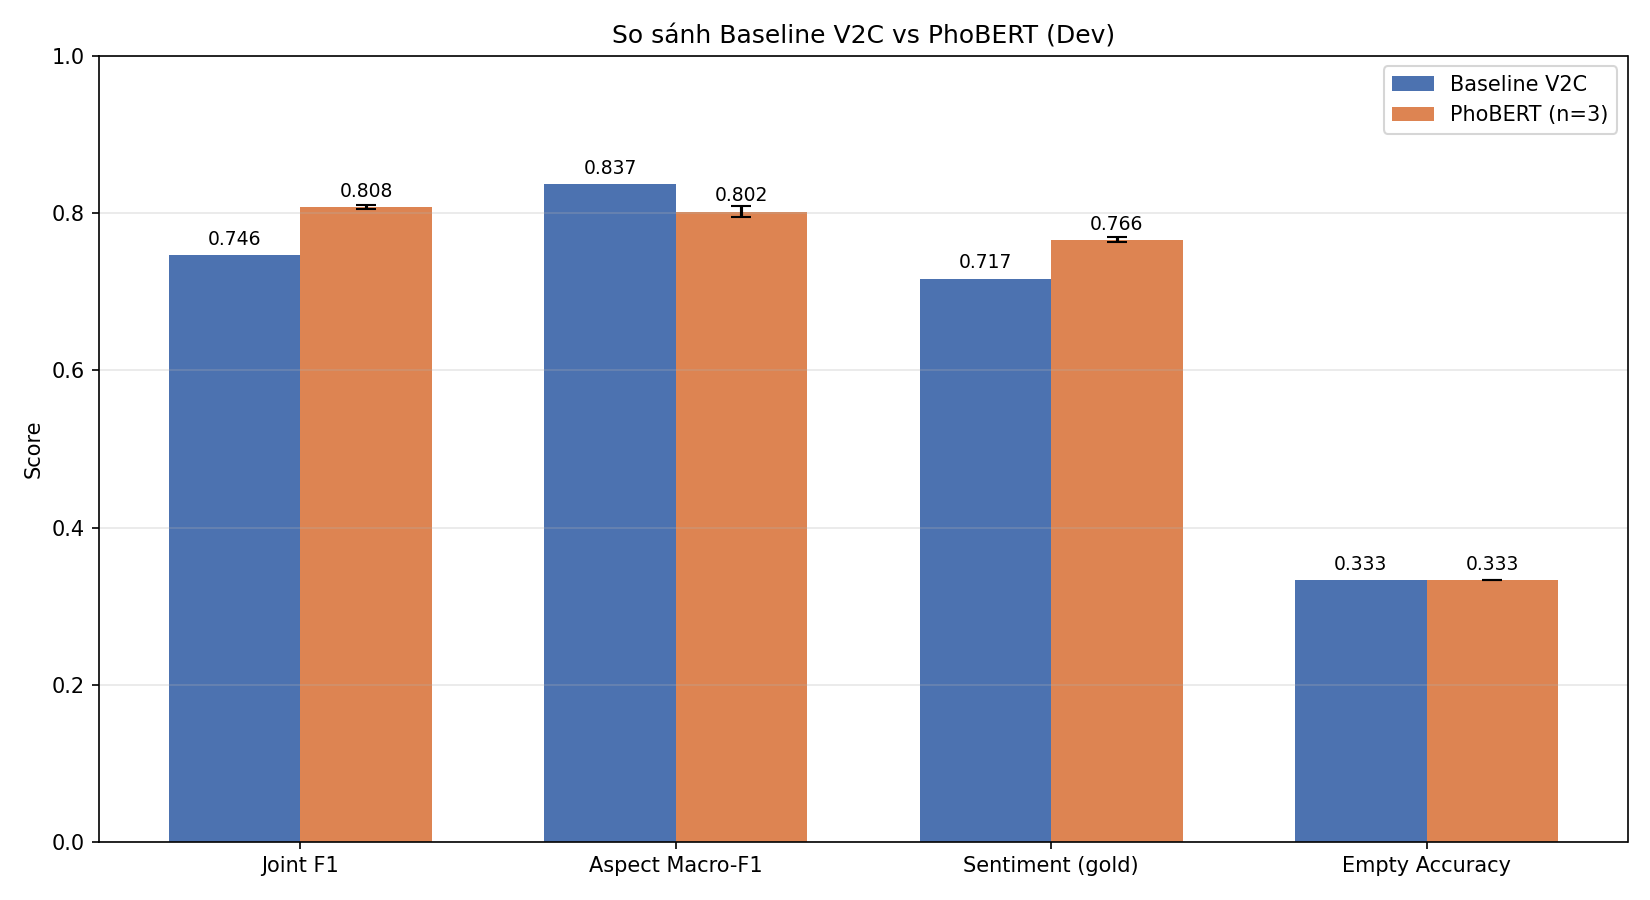
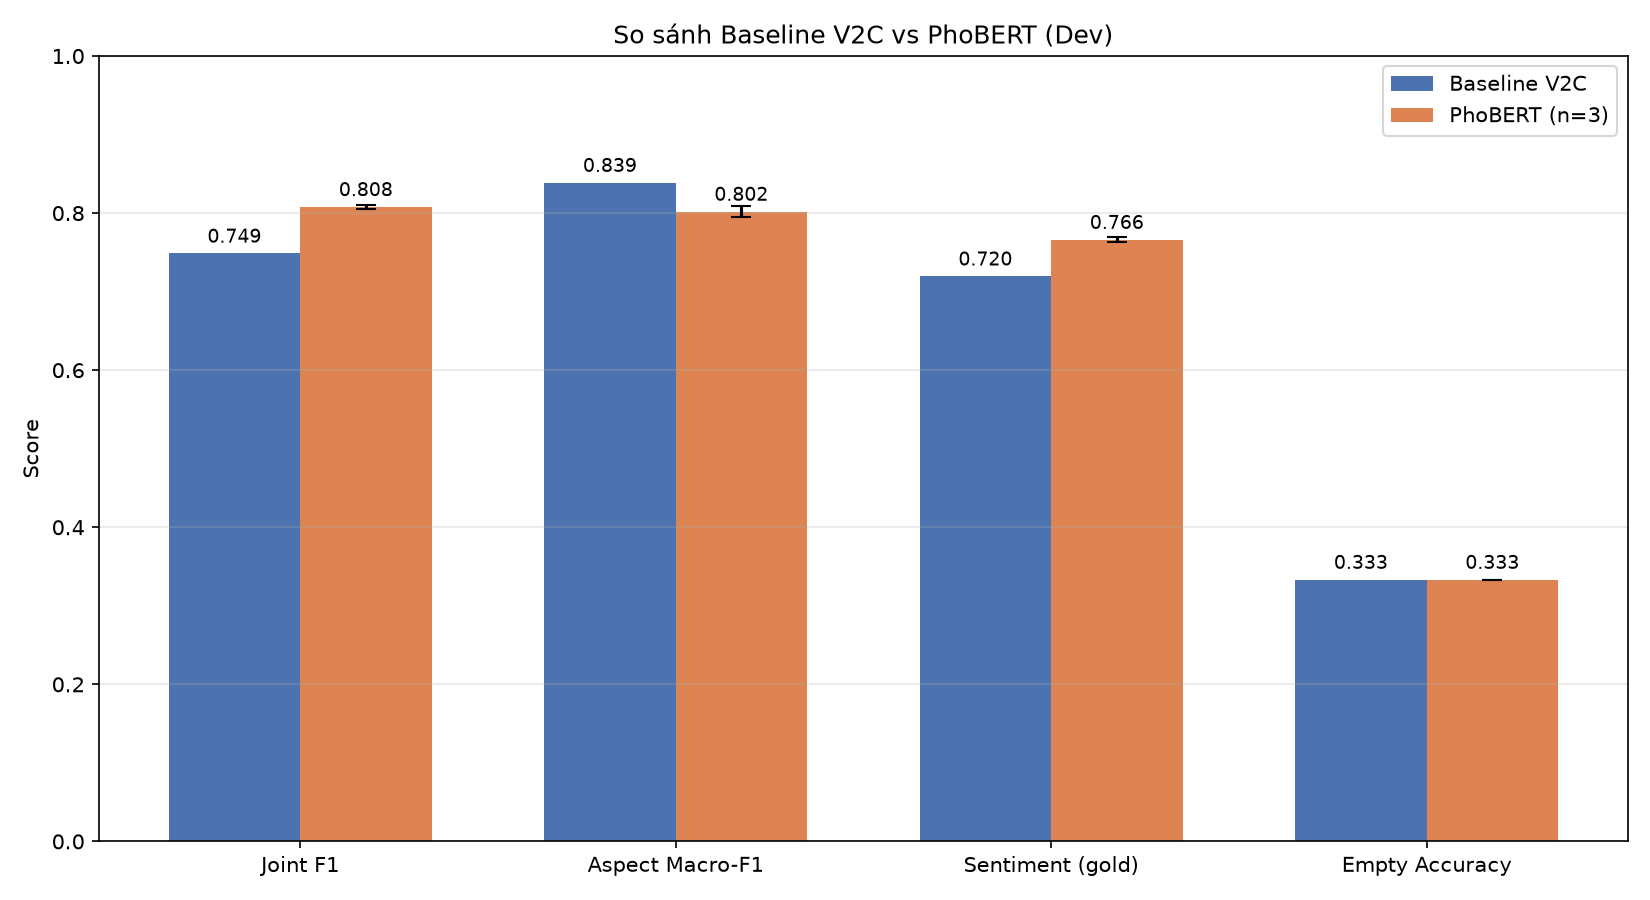
chore(metrics): update comparison metrics and fix to_markdown tabulate error

diff --git a/experiments/compare_models.py b/experiments/compare_models.py
@@ -176,7 +176,14 @@ def main():
     with open(out_dir / "comparison.md", "w", encoding="utf-8") as f:
         f.write("# So sánh Baseline V2C vs PhoBERT\n\n")
         f.write(f"*Số seed PhoBERT: {n_seeds} (seeds: {phobert_seeds_found})*\n\n")
-        f.write(df.to_markdown(index=False))
+        try:
+            f.write(df.to_markdown(index=False))
+        except Exception:
+            cols = [str(c) for c in df.columns]
+            f.write("| " + " | ".join(cols) + " |\n")
+            f.write("| " + " | ".join(["---"] * len(cols)) + " |\n")
+            for _, r in df.iterrows():
+                f.write("| " + " | ".join(str(r[c]) for c in cols) + " |\n")
         f.write("\n\n## Delta (PhoBERT - Baseline)\n\n")
         for k, v in deltas.items():
             sign = "+" if v > 0 else ""

diff --git a/outputs/metrics/comparison.md b/outputs/metrics/comparison.md
@@ -2,15 +2,16 @@
 
 *Số seed PhoBERT: 3 (seeds: [42, 123, 456])*
 
-| Model               | Joint F1        | Aspect Micro    | Aspect Macro    | Sentiment (gold)   | Empty Acc       |
-|:--------------------|:----------------|:----------------|:----------------|:-------------------|:----------------|
-| Baseline V2C        | 0.7465          | 0.8646          | 0.8374          | 0.7168             | 0.3333          |
-| PhoBERT (n=3 seeds) | 0.8079 ± 0.0023 | 0.8986 ± 0.0016 | 0.8020 ± 0.0070 | 0.7661 ± 0.0034    | 0.3333 ± 0.0000 |
+| Model | Joint F1 | Aspect Micro | Aspect Macro | Sentiment (gold) | Empty Acc |
+| --- | --- | --- | --- | --- | --- |
+| Baseline V2C | 0.7487 | 0.8655 | 0.8387 | 0.7196 | 0.3333 |
+| PhoBERT (n=3 seeds) | 0.8079 ± 0.0023 | 0.8986 ± 0.0016 | 0.8020 ± 0.0070 | 0.7661 ± 0.0034 | 0.3333 ± 0.0000 |
+
 
 ## Delta (PhoBERT - Baseline)
 
-- **Joint F1**: +0.0615
-- **Aspect Micro**: +0.0340
-- **Aspect Macro**: -0.0354
-- **Sentiment (gold)**: +0.0494
+- **Joint F1**: +0.0593
+- **Aspect Micro**: +0.0331
+- **Aspect Macro**: -0.0367
+- **Sentiment (gold)**: +0.0466
 - **Empty Acc**: 0.0000
